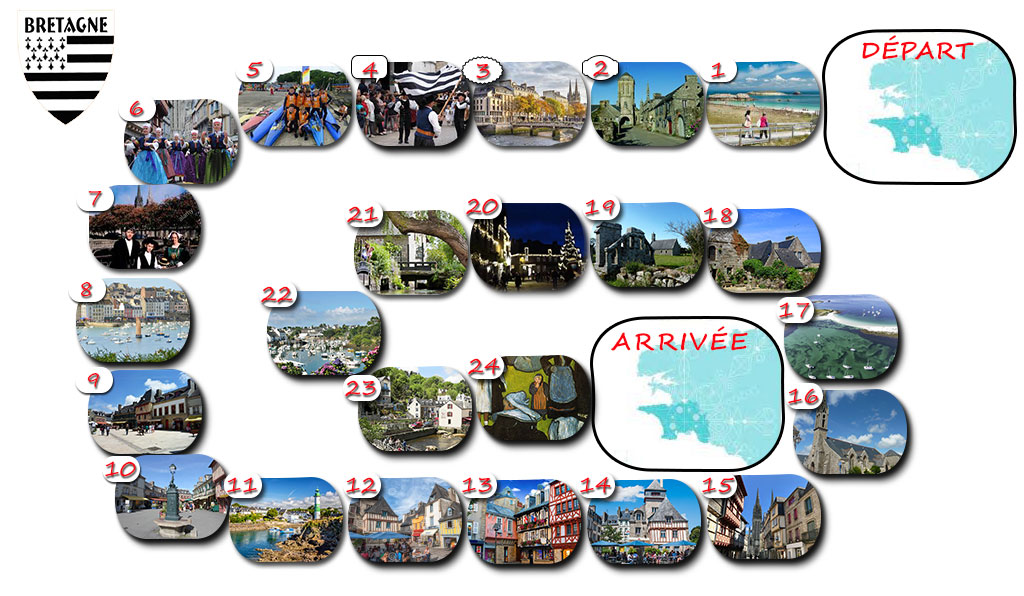
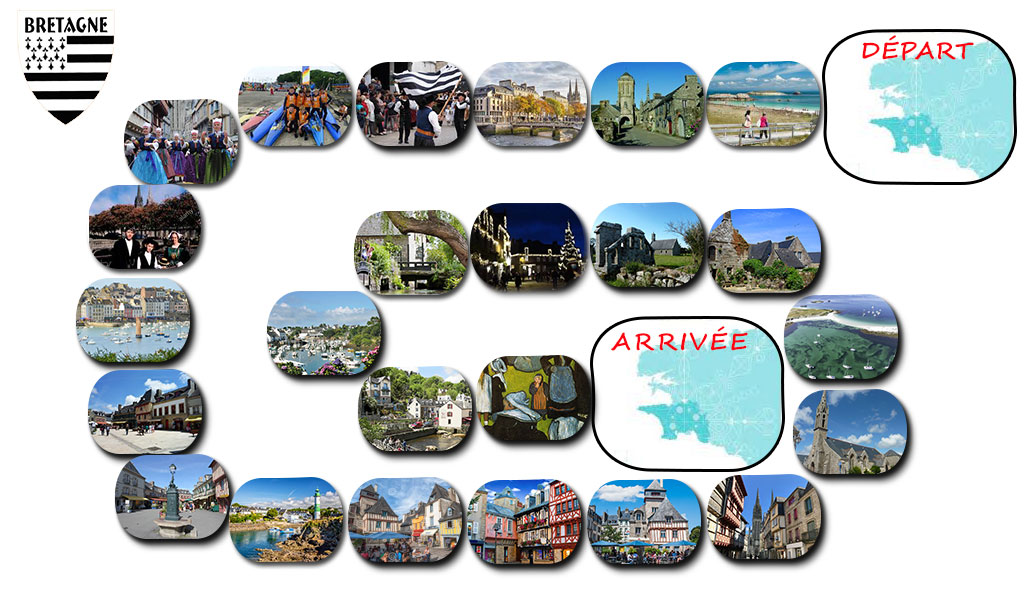
plateau

diff --git a/index.html b/index.html
@@ -50,7 +50,7 @@
             </div>
             <!--PIONS-->
             <div id="pion1" class="ui-draggable">
-                <img alt="" src="./images/pion1.png" width="30" height="40">
+                <img alt="" src="./images/pion1.png" width="40" height="40">
             </div>
             <div id="pion2" class="ui-draggable">
                 <img alt="" src="./images/pion2.png" width="30" height="40">
@@ -69,7 +69,8 @@
             </div>
             <!--TOUTES CASES CADRE-->
             <div id="cases2" style="display: none;">
-                <img src="./images/jeu-oie.png" width="1024" height="596" alt="Jeu de l&#39;oie">
+                <img src="./images/jeu-oie.jpg" width="1024" height="596" alt="Jeu de l&#39;oie">
+                <!-- <img src="./images/jeu-oie.png" width="1024" height="596" alt="Jeu de l&#39;oie"> -->
             </div>
 
             <div id="cases" style="display: none;"></div>
@@ -102,31 +103,35 @@
                 <img alt="" src="./images/dessin-final.png" width="500" height="255">
             </div>
             <!--CARRE POUR VOIR CASES-->
-            <div class="numero" title="Question" id="numero1">1</div>
-            <div class="numero" title="Question" id="numero2"></div>
-            <div class="numero" title="Question" id="numero3"></div>
-            <div class="numero" title="Question" id="numero4"></div>
-            <div class="numero" title="Question" id="numero5"></div>
-            <div class="numero" title="Question" id="numero6"></div>
-            <div class="numero" title="Question" id="numero7"></div>
-            <div class="numero" title="Question" id="numero8"></div>
-            <div class="numero" title="Question" id="numero9"></div>
-            <div class="numero" title="Question" id="numero10"></div>
-            <div class="numero" title="Question" id="numero11"></div>
-            <div class="numero" title="Question" id="numero12"></div>
-            <div class="numero" title="Question" id="numero13"></div>
-            <div class="numero" title="Question" id="numero14"></div>
-            <div class="numero" title="Question" id="numero15"></div>
-            <div class="numero" title="Question" id="numero16"></div>
-            <div class="numero" title="Question" id="numero17"></div>
-            <div class="numero" title="Question" id="numero18"></div>
-            <div class="numero" title="Question" id="numero19"></div>
-            <div class="numero" title="Question" id="numero20"></div>
-            <div class="numero" title="Question" id="numero21"></div>
-            <div class="numero" title="Question" id="numero22"></div>
-            <div class="numero" title="Question" id="numero23"></div>
-            <div class="numero" title="Question" id="numero24"></div>
-            <div class="numero" title="Question" id="numero25"></div>
+            <div class="numero" title="Question" id="numero1">
+                <!-- <p> -->
+                1
+                <!-- </p> -->
+            </div>
+            <div class="numero" title="Question" id="numero2">2</div>
+            <div class="numero" title="Question" id="numero3">3</div>
+            <div class="numero" title="Question" id="numero4">4</div>
+            <div class="numero" title="Question" id="numero5">5</div>
+            <div class="numero" title="Question" id="numero6">6</div>
+            <div class="numero" title="Question" id="numero7">7</div>
+            <div class="numero" title="Question" id="numero8">8</div>
+            <div class="numero" title="Question" id="numero9">9</div>
+            <div class="numero" title="Question" id="numero10">10</div>
+            <div class="numero" title="Question" id="numero11">11</div>
+            <div class="numero" title="Question" id="numero12">12</div>
+            <div class="numero" title="Question" id="numero13">13</div>
+            <div class="numero" title="Question" id="numero14">14</div>
+            <div class="numero" title="Question" id="numero15">15</div>
+            <div class="numero" title="Question" id="numero16">16</div>
+            <div class="numero" title="Question" id="numero17">17</div>
+            <div class="numero" title="Question" id="numero18">18</div>
+            <div class="numero" title="Question" id="numero19">19</div>
+            <div class="numero" title="Question" id="numero20">20</div>
+            <div class="numero" title="Question" id="numero21">21</div>
+            <div class="numero" title="Question" id="numero22">22</div>
+            <div class="numero" title="Question" id="numero23">23</div>
+            <div class="numero" title="Question" id="numero24">24</div>
+            <div class="numero" title="Question" id="numero25">25</div>
             <!--BOUTONS LECTURE-->
             <div id="lecture1" style="display: none;">
                 <img alt="" src="./images/lecture.png" class="lecture" title="lecture" width="60" height="65">

diff --git a/css/jeu-oie.css b/css/jeu-oie.css
@@ -75,6 +75,7 @@ body {
     width: 249px;
     height: 236px;
     visibility: hidden;
+    z-index: 3;
 }
 
 #dessincase4 {
@@ -84,6 +85,7 @@ body {
     width: 515px;
     height: 242px;
     visibility: hidden;
+    z-index: 3;
 }
 
 #dessincase5 {
@@ -93,6 +95,7 @@ body {
     width: 456px;
     height: 242px;
     visibility: hidden;
+    z-index: 3;
 }
 
 #dessincase9 {
@@ -102,6 +105,7 @@ body {
     width: 456px;
     height: 242px;
     visibility: hidden;
+    z-index: 3;
 }
 
 #dessincase18 {
@@ -111,6 +115,7 @@ body {
     width: 456px;
     height: 242px;
     visibility: hidden;
+    z-index: 3;
 }
 
 #dessincase19 {
@@ -120,6 +125,7 @@ body {
     width: 456px;
     height: 242px;
     visibility: hidden;
+    z-index: 3;
 }
 
 #dessincase22 {
@@ -127,6 +133,7 @@ body {
     left: 270px;
     top: 0px;
     visibility: hidden;
+    z-index: 3;
 }
 
 #dessincase24 {
@@ -136,6 +143,7 @@ body {
     width: 700px;
     height: 242px;
     visibility: hidden;
+    z-index: 3;
 }
 
 #dessincase25 {
@@ -145,6 +153,7 @@ body {
     width: 700px;
     height: 242px;
     visibility: hidden;
+    z-index: 3;
 }
 
 
@@ -368,6 +377,7 @@ body {
 #lecture25 {
     top: 379px;
     left: 694px;
+    z-index: 4;
 }
 
 #croix {
@@ -377,6 +387,7 @@ body {
     left: 728px;
     width: 47px;
     height: 65px;
+    z-index: 4;
 }
 
 #croix2 {
@@ -509,6 +520,7 @@ body {
     border: 8px solid var(--main-color);
     /* border: 8px solid #cf6; */
     visibility: visible;
+    z-index: 3;
 }
 
 #numero1 {
@@ -738,7 +750,16 @@ body {
 #numero24 {
     width: 52px;
     height: 30px;
-    opacity: 0;
+    /* opacity: 0; */
+    background-color: #fff;
+    color: red;
+    border-radius: 20px;
+    border: 1px solid #000;
+    font-size: 16px;
+    font-weight: bold;
+    line-height: 2;
+    text-shadow: 3px 3px 10px rgba(0, 0, 0, 0.6);
+    box-shadow: 10px 10px 5px 0px rgba(0, 0, 0, 0.75);
 }
 
 #numero25 {
